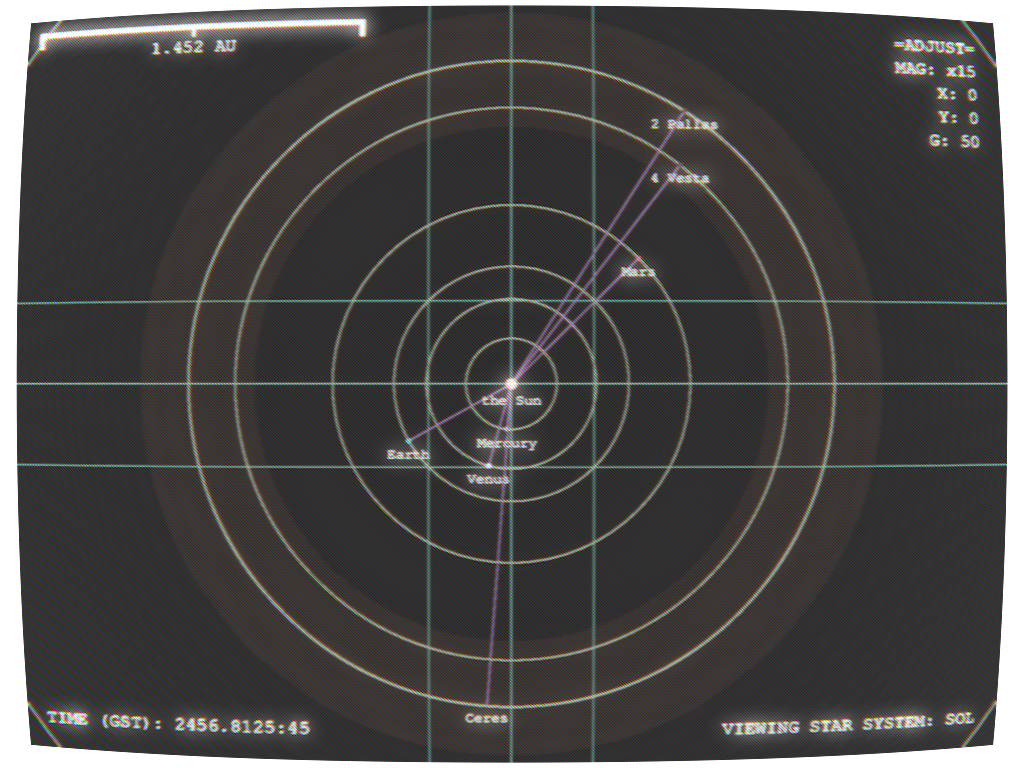
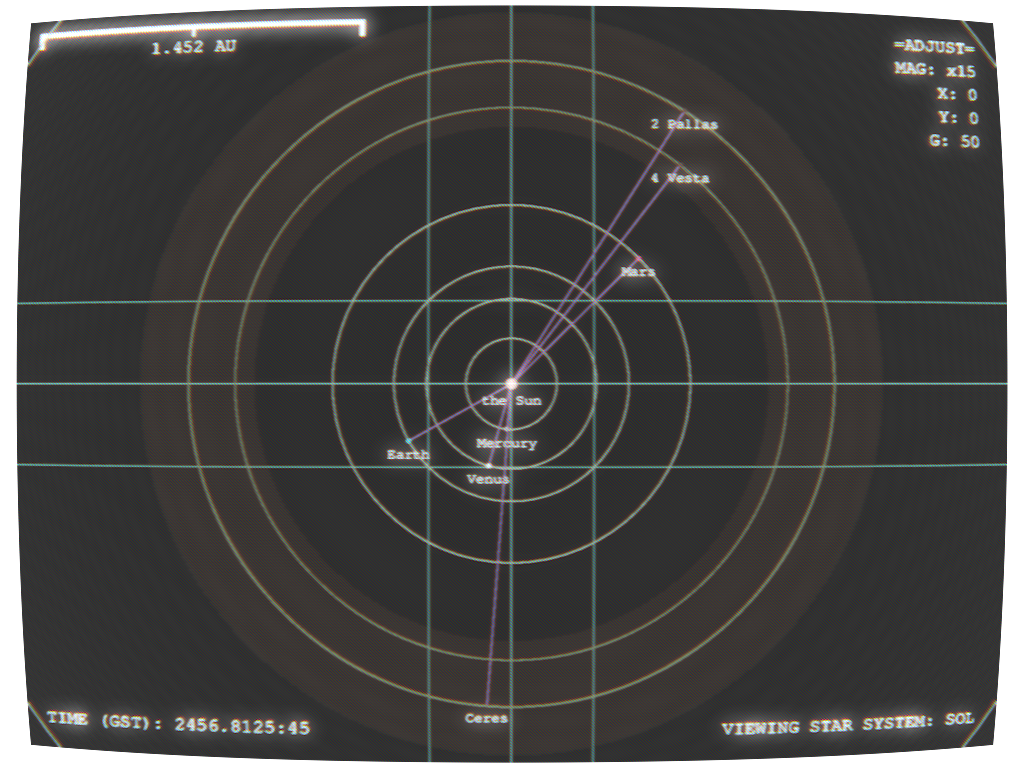
Belt Color Tweak

diff --git a/starbox/utils/spaceturtle.py b/starbox/utils/spaceturtle.py
@@ -168,7 +168,7 @@ def drawOrbit(c, O, rho, phi, rgb=colorOrbit, width=1, stip=""):
     c.create_arc(x0, y0, x1, y1, style="arc", outline=rgb, width=width, outlinestipple=stip, start=-phi.to(u.degree).value, extent=359.999999)
 
 
-def drawSomething(c, loc, w, h, x, y, s, color="#fe4", direct=2, z=1, NoCore=False):
+def drawSomething(c, loc, w, h, x, y, s, color="#fe4", direct=2, z=1, NoCore=False, oCol=colorOrbit):
     for obj in loc.orbitals:
         if obj.bodyType != "Belt":
             rho = obj.posRho.to(u.au)*s
@@ -177,7 +177,7 @@ def drawSomething(c, loc, w, h, x, y, s, color="#fe4", direct=2, z=1, NoCore=Fal
 
             if -10 < x+cart.real < w+10 and -10 < y+cart.imag < h+10 and rho > 30:
                 c.create_line(x, y, x+cart.real, y+cart.imag, fill=colorParentTrace)
-            drawOrbit(c=c, O=[x,y], rho=rho, phi=phi)
+            drawOrbit(c=c, O=[x,y], rho=rho, phi=phi, rgb=oCol)
             drawSomething(c=c, loc=obj, w=w, h=h, x=x+cart.real, y=y+cart.imag, s=s, direct=direct-1, z=z)
         else:
             rho = obj.posRho.to(u.au)*s
@@ -188,7 +188,7 @@ def drawSomething(c, loc, w, h, x, y, s, color="#fe4", direct=2, z=1, NoCore=Fal
             #print(f"Width of {obj.name} is {obj.radius}; It extends from {obj.posRho-obj.radius} to {obj.posRho+obj.radius} away from the center of {obj.parent.name}, with an average distance of {obj.posRho}.\nAt a zoom level of {z} it should have an apparent width of {rad} and an apparent distance of {rho}.")
 
             drawOrbit(c=c, O=[x,y], rho=rho, phi=phi, width=rad*2, stip="gray12", rgb="#4d4020")
-            drawSomething(c=c, loc=obj, w=w, h=h, x=x, y=y, s=s, direct=direct, z=z, NoCore=True)
+            drawSomething(c=c, loc=obj, w=w, h=h, x=x, y=y, s=s, direct=direct, z=z, NoCore=True, oCol="#663")
     if not NoCore:
         try:
             n0 = len(loc.core)
